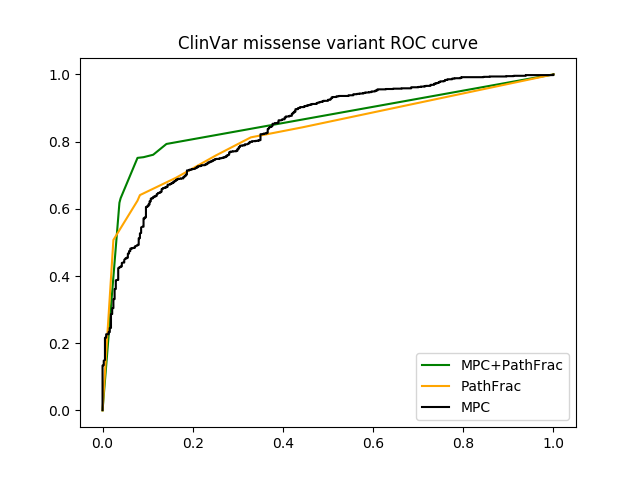
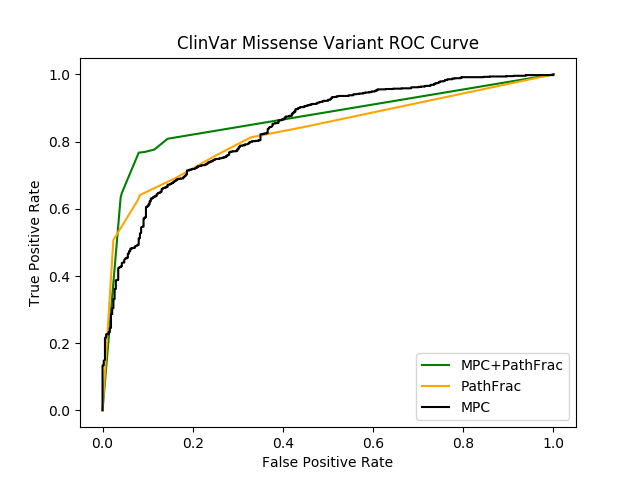
label roc curves

diff --git a/src/scripts/clinvar_eval.py b/src/scripts/clinvar_eval.py
@@ -134,7 +134,10 @@ def write(roc_dat, roc_png, roc_auc_out):
             plt.plot(fpr, tpr, label=label, color=colors[label])
             print(label + '\t' + str(auc), file=fout)
     plt.legend(loc=4)
-    plt.title('ClinVar missense variant ROC curve')
+    plt.title('ClinVar Missense Variant ROC Curve')
+    plt.xlabel('False Positive Rate')
+    plt.ylabel('True Positive Rate')
+
     plt.savefig(roc_png)
     #plt.savefig('../docs/plots/missense_clinvar_roc_feature_union.png')
 

diff --git a/src/scripts/eval_fg.py b/src/scripts/eval_fg.py
@@ -113,7 +113,9 @@ def predict(df_x, out_png):
         else:
             i += 1
     plt.legend(handles, labels, loc=4)
-    plt.title('Epilepsy Cross-validation ROC')
+    plt.title('Epilepsy Variant ROC Curve')
+    plt.xlabel('False Positive Rate')
+    plt.ylabel('True Positive Rate')
     plt.savefig(out_png)
 
 def main(args):
